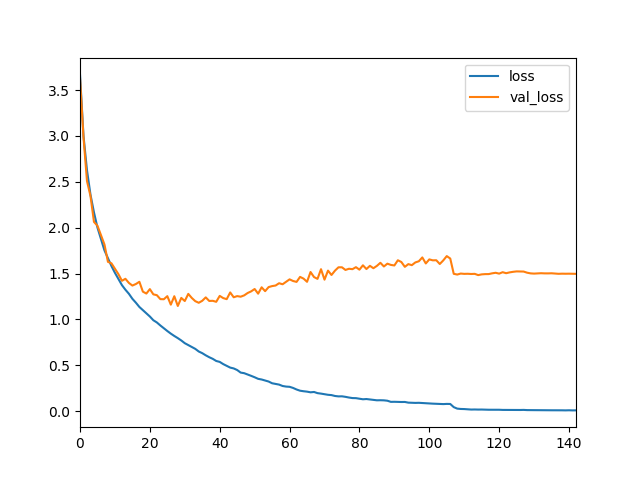
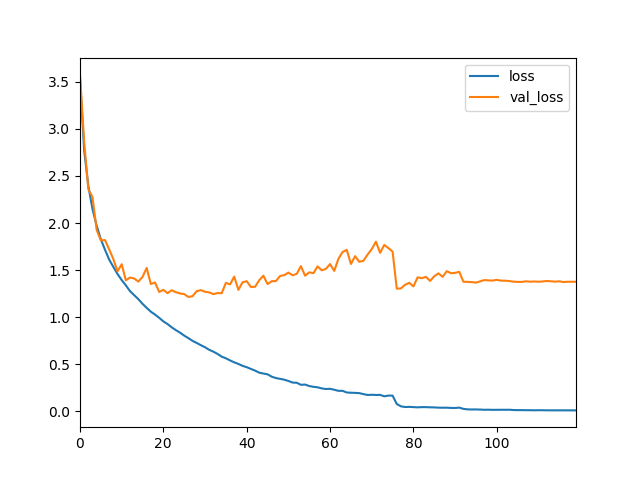
SGD→nadam

diff --git a/keras_exp/cifar100.py b/keras_exp/cifar100.py
@@ -55,7 +55,7 @@ def create_model(nb_classes: int, input_shape: tuple):
     x = keras.layers.Dense(nb_classes, activation='softmax')(x)
 
     model = keras.models.Model(inputs=inp, outputs=x)
-    model.compile(keras.optimizers.SGD(momentum=0.9, nesterov=True), 'categorical_crossentropy', ['acc'])
+    model.compile('nadam', 'categorical_crossentropy', ['acc'])
     return model
 
 
@@ -77,7 +77,7 @@ def run(result_dir: pathlib.Path, logger):
     tk.dl.plot_model_params(model, result_dir.joinpath('model.params.png'))
 
     callbacks = []
-    callbacks.append(tk.dl.my_callback_factory()(result_dir, base_lr=0.1))
+    callbacks.append(tk.dl.my_callback_factory()(result_dir, base_lr=1e-3))
     callbacks.append(tk.dl.learning_curve_plotter_factory()(result_dir.joinpath('history.{metric}.png'), 'loss'))
     callbacks.append(tk.dl.learning_curve_plotter_factory()(result_dir.joinpath('history.{metric}.png'), 'acc'))
     # if K.backend() == 'tensorflow':
